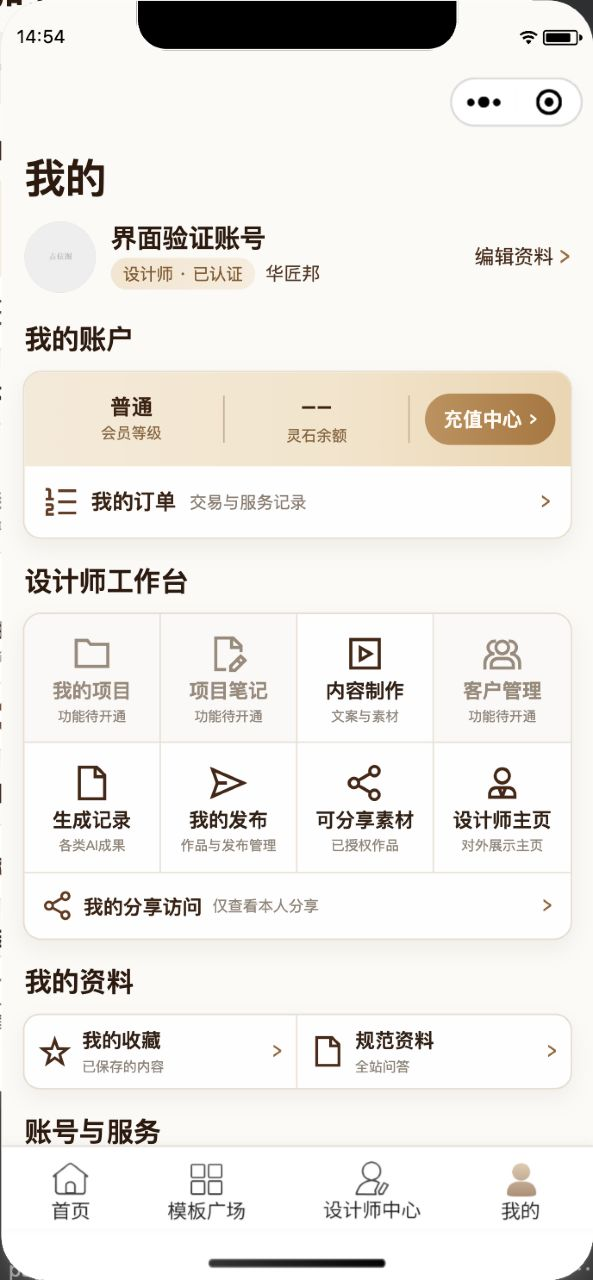
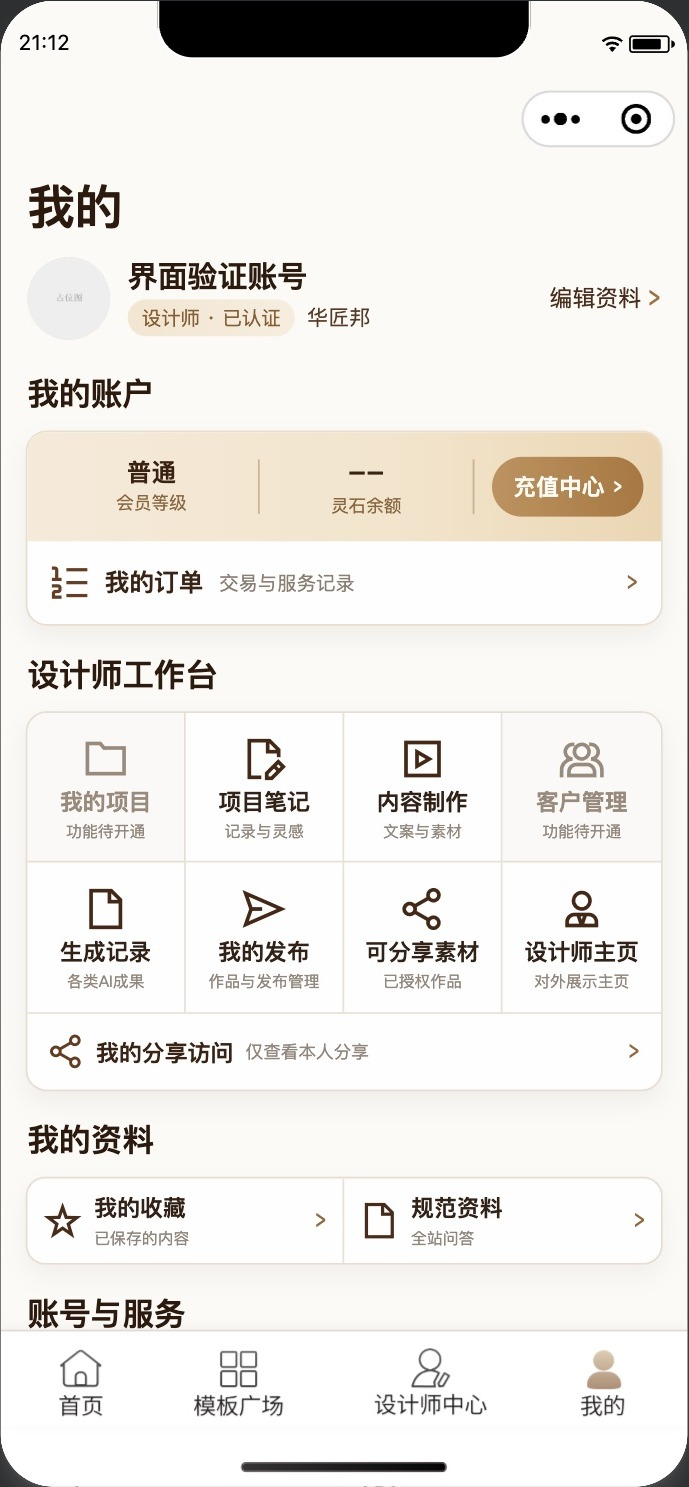
让我的项目笔记入口与已落地页面保持一致
项目笔记页面已经具备独立能力，我的工作台不能继续显示待开通。
沿用现有登录门禁和跳转失败提示，接入真实页面，并记录原生界面与隔离验证边界。

Constraint: 不把公开图文替代私人项目权限，不新增依赖
Confidence: 高
Scope-risk: 局部
Reversibility: 干净回退，无数据库迁移
Tested: 未登录拦截与已登录目标路由回归通过，我的原生首屏与服务区复看，类型与路由检查通过
Not-tested: 真实外部导入、付费模型、跨账号真机与生产上传；原生内容点击使用隔离内存响应
Directive: 项目笔记权限继续由对应页面及服务端检查，不能因入口可见而放宽访问控制

diff --git a/miniprogram/miniprogram/pages/my/my.js b/miniprogram/miniprogram/pages/my/my.js
@@ -94,7 +94,7 @@ function buildWorkbenchMenuItems(options) {
     });
     return [
         { action: 'myProjects', label: '我的项目', icon: 'folder', description: '方案与效果图', available: false, meta: '功能待开通' },
-        { action: 'projectNotes', label: '项目笔记', icon: 'file-edit', description: '记录与灵感', available: false, meta: '功能待开通' },
+        { action: 'projectNotes', label: '项目笔记', icon: 'file-edit', description: '记录与灵感', available: true },
         { action: 'contentWorkbench', label: '内容制作', icon: 'video', description: '文案与素材', available: hasLoginToken },
         { action: 'customerManagement', label: '客户管理', icon: 'usergroup', description: '跟进与回访', available: false, meta: '功能待开通' },
         { action: 'project', label: '生成记录', icon: 'file', description: '各类AI成果', available: hasLoginToken },
@@ -945,6 +945,11 @@ Page({
             this.goToGenerateHistory();
             return;
         }
+        if (action === 'projectNotes') {
+            wx.navigateTo({ url: '/pages/projectnotes/projectnotes', fail: () => wx.showToast({ title: '页面跳转失败', icon: 'none' }) });
+            return;
+        }
+
         if (action === 'contentWorkbench') {
             wx.navigateTo({ url: '/pages/contentworkbench/contentworkbench', fail: () => wx.showToast({ title: '页面跳转失败', icon: 'none' }) });
             return;

diff --git a/miniprogram/tests/phase3-my-layout.test.js b/miniprogram/tests/phase3-my-layout.test.js
@@ -58,3 +58,28 @@ test('我的页使用已有 TDesign 细线图标并保持暖白背景', () => {
   assert.doesNotMatch(wxml, /page-background/);
   assert.match(scss, /background:\s*#fbfaf7/);
 });
+
+test('项目笔记已有页面时我的入口可用且保留登录门禁', () => {
+  const vm = require('node:vm');
+  let page;
+  const navigations = [], toasts = [];
+  vm.runInNewContext(read('my.js'), {
+    exports: {},
+    require: () => ({ resolveAssetPath: value => value }),
+    Page: definition => { page = definition; },
+    wx: { getStorageSync: () => '', navigateTo: options => navigations.push(options.url), showToast: options => toasts.push(options.title) },
+  });
+  const event = { currentTarget: { dataset: { action: 'projectNotes' } } };
+  page.data = { ...page.data, token: '', hasLoginToken: false };
+  page.onWorkbenchMenuTap(event);
+  assert.equal(navigations.length, 0);
+  assert.equal(toasts[0], '请先登录');
+  page.data.token = 'fixture-session';
+  page.onWorkbenchMenuTap(event);
+  assert.deepEqual(navigations, ['/pages/projectnotes/projectnotes']);
+  for (const file of ['my.ts', 'my.js']) {
+    const source = read(file);
+    assert.match(source, /action: 'projectNotes'[^\n]+available: true/);
+    assert.match(source, /\/pages\/projectnotes\/projectnotes/);
+  }
+});

diff --git a/miniprogram/miniprogram/pages/my/my.ts b/miniprogram/miniprogram/pages/my/my.ts
@@ -129,7 +129,7 @@ function buildWorkbenchMenuItems(options: {
 
   return [
     { action: 'myProjects', label: '我的项目', icon: 'folder', description: '方案与效果图', available: false, meta: '功能待开通' },
-    { action: 'projectNotes', label: '项目笔记', icon: 'file-edit', description: '记录与灵感', available: false, meta: '功能待开通' },
+    { action: 'projectNotes', label: '项目笔记', icon: 'file-edit', description: '记录与灵感', available: true },
     { action: 'contentWorkbench', label: '内容制作', icon: 'video', description: '文案与素材', available: hasLoginToken },
     { action: 'customerManagement', label: '客户管理', icon: 'usergroup', description: '跟进与回访', available: false, meta: '功能待开通' },
     { action: 'project', label: '生成记录', icon: 'file', description: '各类AI成果', available: hasLoginToken },
@@ -1026,6 +1026,11 @@ Page({
 
     if (action === 'project') {
       this.goToGenerateHistory();
+      return;
+    }
+
+    if (action === 'projectNotes') {
+      wx.navigateTo({ url: '/pages/projectnotes/projectnotes', fail: () => wx.showToast({ title: '页面跳转失败', icon: 'none' }) });
       return;
     }
 

diff --git a/docs/phase3/frontend-implementation-20261027.md b/docs/phase3/frontend-implementation-20261027.md
@@ -8,7 +8,7 @@
 2. 编辑与阅读：正文/图片/视频、封面、来源、草稿/预览/发布/撤回、发布后阅读及真实分享。原排版和旧格式的只读边界保留。
 3. 我的：身份、账户、工作台两排四列、资料、服务、管理员及退出。保留既有角色与登录权限，不照抄示例数字。
 
-项目协作、受邀权限及AI业务能力以现有服务实际能力为准，不借页面承诺不存在的接口。生产开关、微信消息发送、上传发布与真机验收独立记录。
+项目协作、受邀权限及AI业务能力以现有服务实际能力为准；本轮复用对应模块，不扩展它们的权限契约。生产开关、微信消息发送、上传发布与真机验收独立记录。
 
 ## 实施与验证
 
@@ -23,34 +23,47 @@
 
 ## 本轮代码结果
 
-- 内容制作按图拆分首页与链接导入视图；复用 `content_q`、服务端游标与导入任务。图文/视频分类从真实媒体推导，未提供的笔记/文档能力明确提示未开通。私有封面最多两个下载并行，分页不重复下载，迟到结果不跨账号回写。
+- 内容制作按图拆分首页与链接导入视图；复用 `content_q`、服务端游标与导入任务。图文/视频分类从真实媒体推导；项目笔记与原生资料库入口随后由对应模块接入。私有封面最多两个下载并行，分页不重复下载，迟到结果不跨账号回写。
 - 新增 `contentwriting`：设计说明/项目介绍/推广文案三类，真实资料输入、结果编辑、精简/扩写/语气。使用原聊天流式调用与价格；用户点击发送才触发。SSE跨行/跨UTF-8块正常解析，失败、未完成或换账号不能采用结果。
 - 编辑器独立保存草稿、服务端预览、发布与撤回；发布后直接进入阅读与分享。AI从编辑器发起时回到同一草稿，保留原文并追加结果，签名变化/保存/换账号时明确拒绝覆盖。独立策划页可以建立新草稿。
 - 阅读页保持原排版、原生视频、来源及追踪同意规则，呈现金棕色阅读排版和真实微信分享/复制链接动作。
 - “我的”以本聊天用户图片左侧为准：身份与编辑、账户在前、两排四列工作台、个人资料两列、账号服务、管理员和退出。保留全部既有动作和权限，没有抄入示例反馈/回访/账户数字。
 - 补齐4个私有页面的导航组件声明，去除这些页面及阅读/策划页无效的分享JSON字段；分享仍由既有生命周期与原生回调控制。新增策划路由在小程序与Go清单中都明确排除采集。
 
+## 原生验证修复
+
+继续验证时发现的实际问题已修复：WXML 条件中的 `&amp;&amp;` 不会按 JavaScript 的 `&&` 解释；把条件与循环写在同一节点也会破坏相邻 `wx:else` 分支。工作台、编辑器、阅读及消息中心现在使用原生可编译的条件和嵌套块。新增直接执行官方 `wcc` 的回归测试，先确认旧写法失败，再确认九个相关页面通过。
+
+原生截图还暴露了小程序默认按钮宽度覆盖页面样式、编辑器重复顶部留白、策划输入框垂直偏移和阅读咨询卡片文字挤压，已逐项修正并复看。阅读页复用统一导航组件及固定分享栏，正文保留底部安全空间。
+
+“我的”中的项目笔记接入当前已有 `/pages/projectnotes/projectnotes`，登录门禁及跳转失败提示保留；其他未落地的项目管理/客户管理仍如实提示待开通。
+
 ## 当前验证证据与边界
 
 | 验证 | 结果与证明范围 |
 | --- | --- |
-| 小程序完整测试 | 556项：553通过、0失败、3项沿用原条件跳过 |
-| TypeScript | `background/node_modules/.bin/tsc -p miniprogram --noEmit`通过 |
-| 产物/路由 | `build-tracking.js --check`通过；64条真实路由，22公开、42排除，前后端清单一致 |
-| Go相关回归 | `CGO_ENABLED=0 go test ./tracking`通过；仅路由清单新增私有页面 |
-| 样式 | 四个WXSS及我的/聊天SCSS均通过已有Sass解析；未引入依赖 |
-| 依赖审计 | 小程序 `npm audit --omit=dev --package-lock-only`：0项漏洞 |
-| 原生页面 | “我的”已取得原生未登录及隔离数据截图，身份/账户/工作台/资料/服务结构可见；截图内账号为“界面验证账号”，余额占位 |
-| 原生编译 | [模板与样式编译摘要](evidence/frontend/compilation-summary.json)记录各文件结果；不等同完整交互通过 |
-| 完整原生点击链 | 尚未通过。验证过程中自动化子包导航超时，之后CUA明确返回Mac已锁屏，已请求用户解锁。不能把已写好的验证脚本或单文件编译当作点击链通过 |
-| 真实端到端 | 未部署新服务/配置，未上传新小程序，未真实调用模型、导入外部样例、发送服务号或做跨账号真机验收 |
+| 当前小程序完整测试 | 607项：604通过、0失败、3项沿用条件跳过；工作树同时含其他模块正在提交的代码 |
+| 本轮隔离快照测试 | 基于 `358399c` 及本轮模板/样式/验收修复：568项，565通过、0失败、3跳过；不混入并行项目笔记/分享转接改动 |
+| TypeScript | 现有 `background/node_modules/.bin/tsc -p miniprogram --noEmit`通过，无新增依赖 |
+| 产物/路由 | `build-tracking.js --check`通过；当前67条路由，22公开、45排除，前后端清单一致 |
+| Go跟踪回归 | 当前工作树及隔离快照的 `CGO_ENABLED=0 go test ./tracking`均通过。并行分享转接代码的一次中间态失败已在后续完整运行中通过 |
+| 模板/样式/语法 | 九个页面经官方原生 `wcc`编译通过；四个变更WXSS经已有Sass解析通过，验收JS语法及差异空白检查通过，见[编译摘要](evidence/frontend/compilation-summary.json) |
+| 依赖与秘密检查 | 小程序依赖审计0漏洞；本轮变更未发现真实密码、令牌或密钥 |
+| 原生点击链 | 实际窗口中验证内容列表、导入入口与粘贴、标题/正文输入、保存、预览、发布、发布后阅读，以及策划结果经EventChannel回填新草稿。结果见[原生验证记录](evidence/frontend/native-verification.json) |
+| 我的入口 | 账户/工作台/服务已原生复看；项目笔记的登录拦截及目标路由经运行时回归测试通过 |
+| 清理 | 原生控制台确认 `restored=true, fixtureToken=false`，恢复请求/剪贴板接口和原本地登录状态 |
+| 线上及真机 | 本轮未部署服务或上传小程序，未真实调用付费模型、导入外部样例、上传媒体、发送服务号或做跨账号真机分享验收 |
 
-截图：[我的首屏](evidence/frontend/01-my-top.jpg)、[我的资料与服务](evidence/frontend/02-my-services.jpg)。上述截图使用隔离页面数据，不证明真实账号余额、角色或服务端已开通。
+原生截图：[我的首屏](evidence/frontend/01-my-top.jpg)、[资料与服务](evidence/frontend/02-my-services.jpg)、[内容制作](evidence/frontend/03-content-studio.jpg)、[链接导入](evidence/frontend/04-content-import.jpg)、[编辑器首屏](evidence/frontend/05-content-editor-top.jpg)、[发布预览](evidence/frontend/05-content-editor.jpg)、[阅读分享](evidence/frontend/06-published-reader.jpg)、[文案策划](evidence/frontend/07-ai-writing.jpg)。截图来自真实开发者工具窗口裁切；账户和内容均为明确的隔离验收数据，不证明生产账户余额或权限已开通。
 
-解锁后使用 `node miniprogram/verification/phase3-frontend.cjs` 重跑原生输入、导入粘贴、保存/预览/发布/阅读、文案回填流程。脚本仅在目标项目运行时mock输入/网络，以内存测试内容验证页面调用；结束恢复mock，绝不发布或调用付费提供商。若后续编译或编辑更改了页面，先重新打开该隔离项目，再执行脚本，避免沿用失效页面栈。
+开发者工具的官方自动化桥曾按同一路径选中不同app-service frame，导致页面栈、页面数据和截图不一致。确认后，原生验收固定在 `runtimeid=1, devid=s2` 的同一窗口，通过原生控制台安装可恢复的内存响应，再实际点击和输入。没有为工具问题修改分享追踪或关闭生产采集。隔离源码及覆盖哈希见[快照来源](evidence/frontend/snapshot-provenance.json)。
+
+`node miniprogram/verification/phase3-frontend.cjs`保留自动化入口；运行前必须核对当前页与屏幕一致。若桥选错frame，可用 `--console-source`打印隔离数据源，在目标窗口控制台执行并完成实际点击；打印源码的成功退出不代表验收通过，结束必须执行 `getApp().phase3UINativeRestore()`。自动化runner只恢复已成功mock的方法，恢复失败将退出失败并写入未完成状态；未配置的请求返回501。单独生成源码不会写入通过记录。
+
+`phase3-wxml-compile.test.js`默认使用本机官方编译器；其他环境缺少该二进制时会跳过，不能将其当作原生编译通过。CI需要原生编译门禁时应显式提供可执行的 `WXML_COMPILER`。本次本机十个编译测试全部实际执行。
 
 ## 简化、回退与剩余范围
 
-沿用现有接口、内容模型、授权下载、聊天和分享链，没有添加平行存储、权限方案或第三方依赖。编辑器保存与预览复用同一草稿写入函数。回退只需撤回本轮前端提交，恢复旧路由清单；没有本轮数据库迁移。工作树中其他聊天的content-capture/ops工作不属于本轮提交范围。
+沿用现有接口、内容模型、授权下载、聊天和分享链，没有添加平行存储、权限方案或第三方依赖。编辑器保存与预览复用同一草稿写入函数。本轮没有数据库迁移。早先页面落地见 `358399c`；本次原生编译、布局及验收修复独立提交为 `32192a1`，没有收录并行分享转接或项目笔记实现。提交前已确认对应逆向补丁可应用；最终“我的”入口及验证记录另行提交。
 
-完整私人项目、邀请笔记与手机客户管理缺少相应契约，保留待开通状态；普通资料和公开内容不能冒充这些私人业务。线上仍需独立部署/开关/授权和真实样例、微信及角色验收。
+私人项目笔记、受邀版本与反馈由并行模块实现；本轮仅接入已有入口，不用公开图文替代私人权限。我的项目及手机客户管理仍缺少相应页面，保留待开通状态。线上仍需独立部署/开关/授权和真实样例、微信及角色验收。
